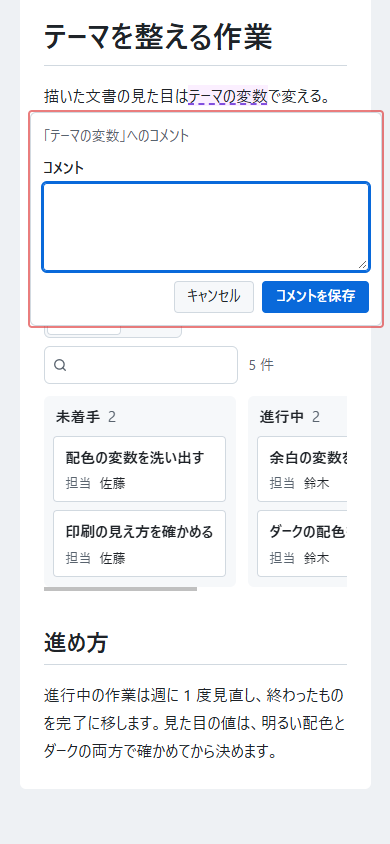
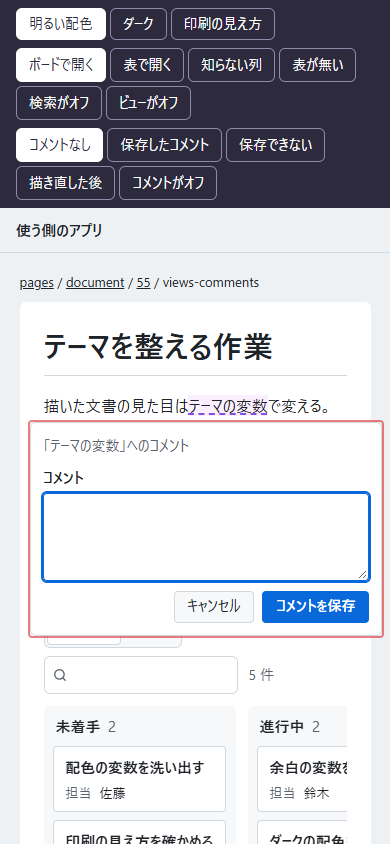
mock: コメントの入力欄で Custom Highlight API があるときだけ選んだ箇所に色を残す

diff --git a/dev/mock/refs/55/assets/comment.js b/dev/mock/refs/55/assets/comment.js
@@ -95,7 +95,7 @@
     if (!force && textarea.value.trim() && !window.confirm("書いたコメントを捨てて閉じますか？")) return false;
     open.element.remove();
     open = null;
-    CSS.highlights.delete(PENDING_HIGHLIGHT);
+    if (CSS.highlights) CSS.highlights.delete(PENDING_HIGHLIGHT);
     return true;
   };
 
@@ -129,8 +129,8 @@
     open = { element: dialog, anchor: () => range.getBoundingClientRect(), returnTo: addButton };
     place(dialog, range.getBoundingClientRect());
     addButton.hidden = true;
-    // 選びが入力欄へ移って消えても、選んだ箇所に色を残す
-    CSS.highlights.set(PENDING_HIGHLIGHT, new Highlight(range));
+    // 選びが入力欄へ移って消えても、選んだ箇所に色を残す。Custom Highlight API の無いブラウザでは色を残さず、入力欄の見出しの選んだ文字で箇所を示す
+    if (CSS.highlights) CSS.highlights.set(PENDING_HIGHLIGHT, new Highlight(range));
 
     const form = dialog.querySelector("form");
 
